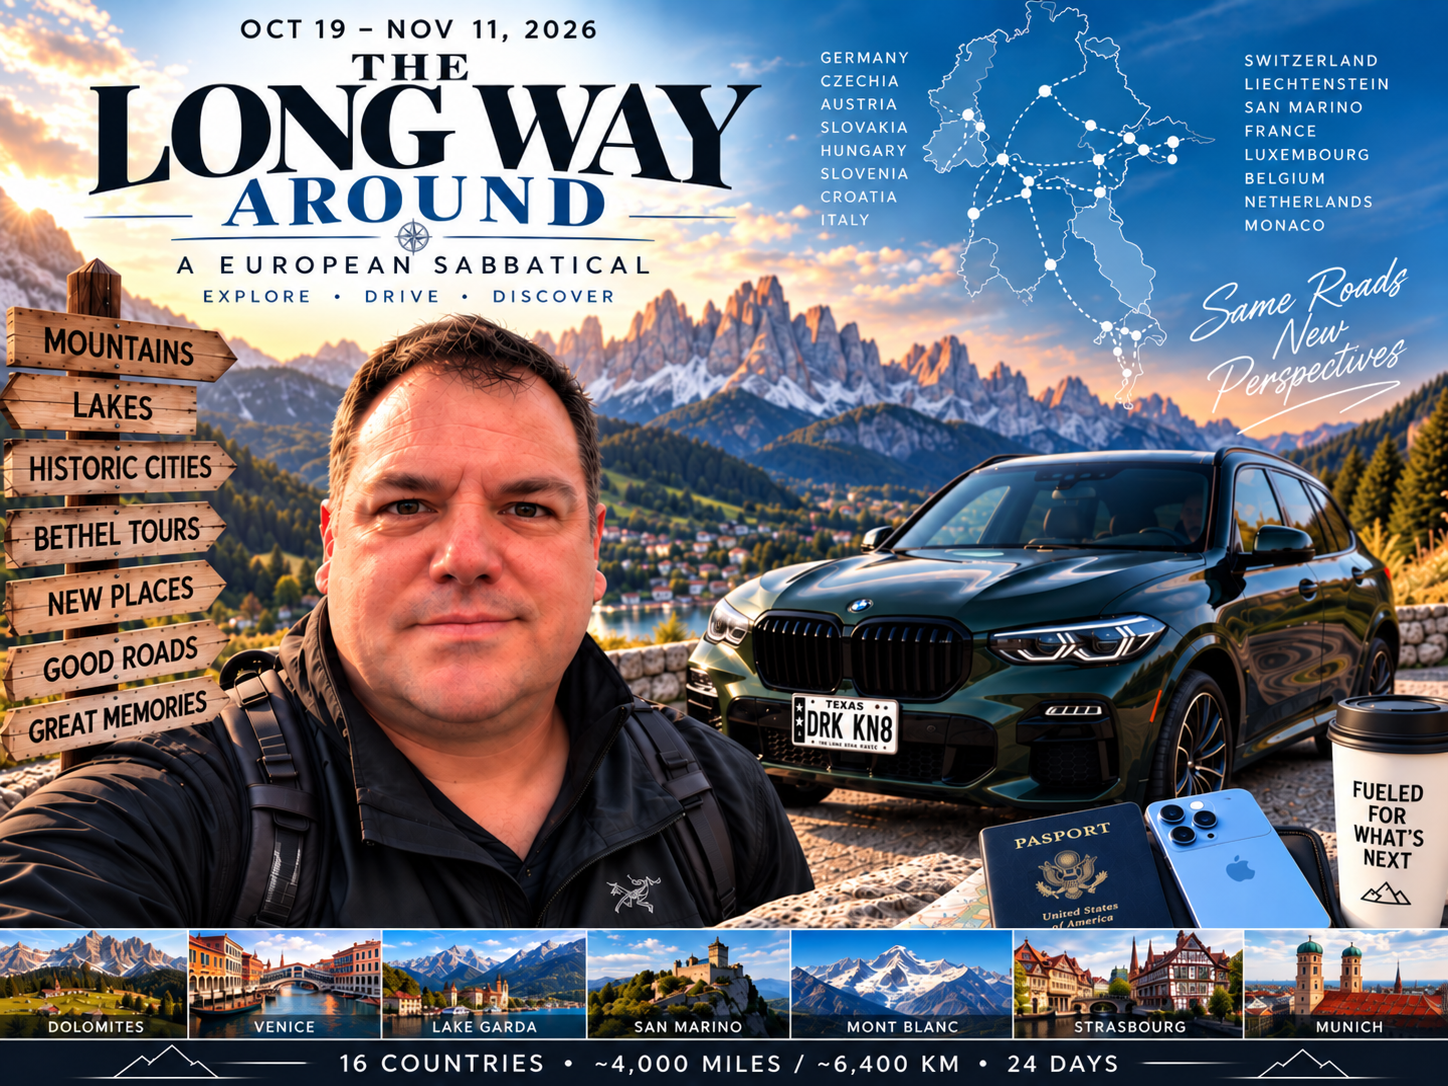
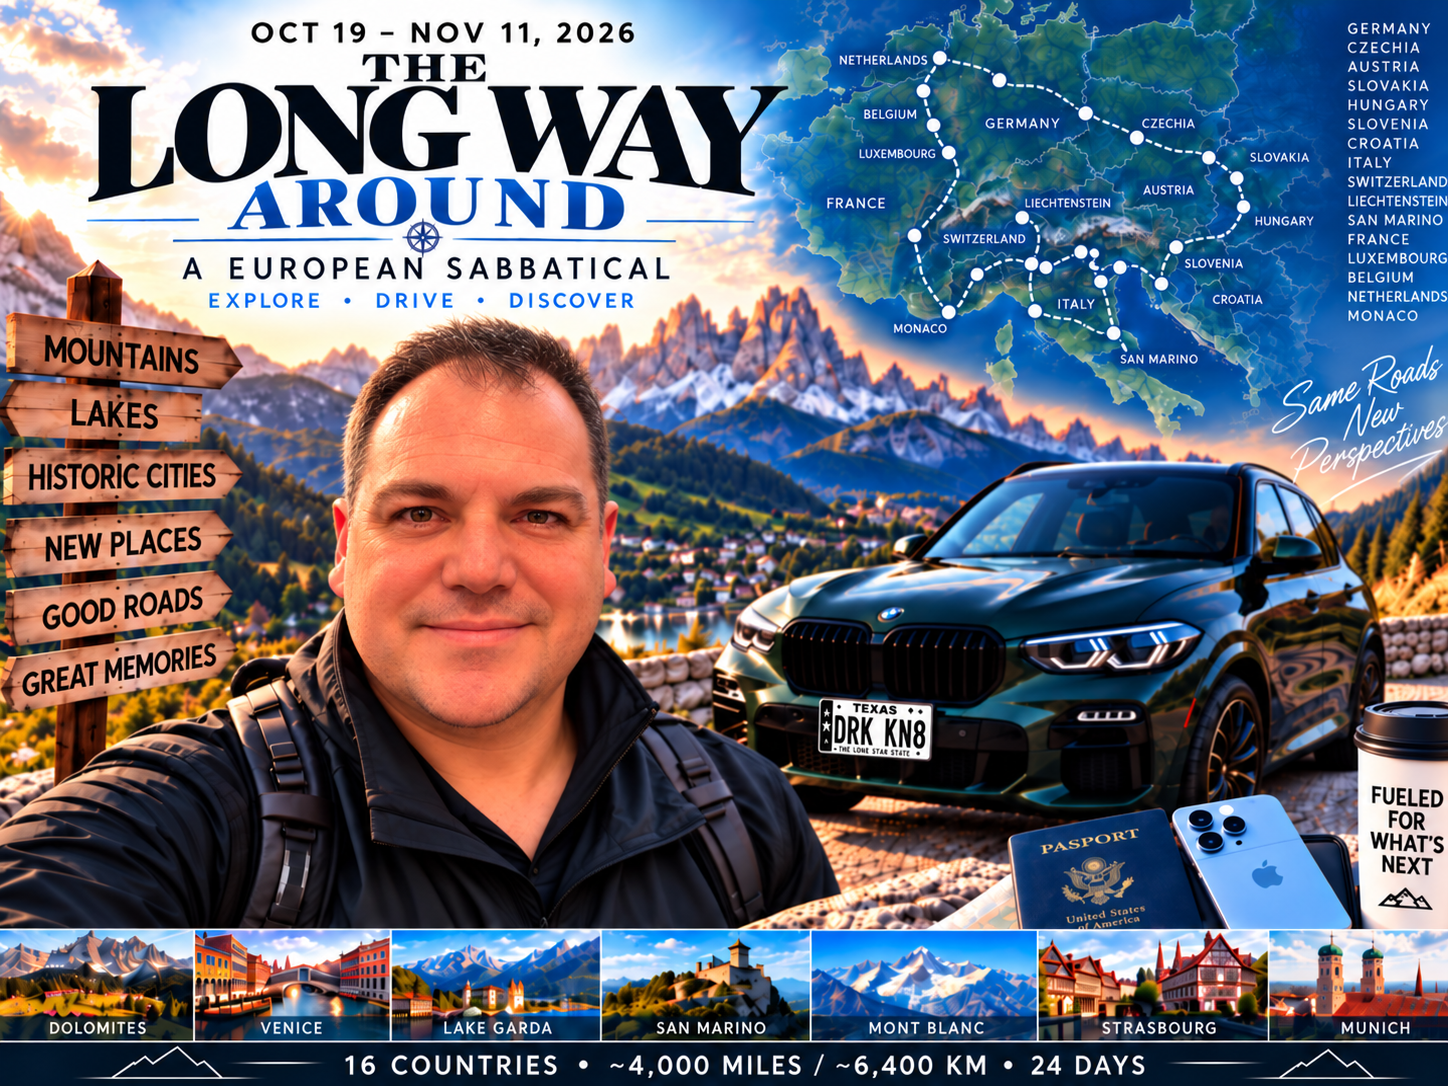
Updates to remove journey and add latest postcard

diff --git a/js/latest-postcard.js b/js/latest-postcard.js
@@ -1,0 +1,164 @@
+/* =====================================
+   POSTCARDS FROM BEN
+   Latest Postcard
+===================================== */
+
+async function loadLatestPostcard() {
+
+    const section =
+        document.getElementById(
+            "latest-postcard-section"
+        );
+
+    if (!section) {
+        return;
+    }
+
+    try {
+
+        const tripResponse =
+            await fetch(
+                "trips/the-long-way-around/trip.json"
+            );
+
+        if (!tripResponse.ok) {
+            throw new Error(
+                "Could not load trip data."
+            );
+        }
+
+        const trip =
+            await tripResponse.json();
+
+
+        /*
+         Start with Day 24 and work backward.
+         The newest day containing a journal,
+         photo, or video becomes Latest Postcard.
+        */
+
+        const days =
+            [...trip.days].reverse();
+
+
+        for (const dayReference of days) {
+
+            const dayUrl =
+                new URL(
+                    dayReference.file,
+                    tripResponse.url
+                ).href;
+
+            const dayResponse =
+                await fetch(dayUrl);
+
+            if (!dayResponse.ok) {
+                continue;
+            }
+
+            const day =
+                await dayResponse.json();
+
+
+            const hasJournal =
+                typeof day.journal === "string" &&
+                day.journal.trim() !== "";
+
+            const hasPhotos =
+                Array.isArray(day.photos) &&
+                day.photos.length > 0;
+
+            const hasVideos =
+                Array.isArray(day.videos) &&
+                day.videos.length > 0;
+
+
+            if (
+                !hasJournal &&
+                !hasPhotos &&
+                !hasVideos
+            ) {
+                continue;
+            }
+
+
+            document.getElementById(
+                "latest-postcard-meta"
+            ).textContent =
+                `Day ${day.dayNumber} · ${day.date}`;
+
+
+            document.getElementById(
+                "latest-postcard-title"
+            ).textContent =
+                day.title;
+
+
+            let excerpt;
+
+
+            if (hasJournal) {
+
+                excerpt =
+                    day.journal
+                        .replace(/\s+/g, " ")
+                        .trim();
+
+                if (excerpt.length > 180) {
+
+                    excerpt =
+                        excerpt
+                            .slice(0, 177)
+                            .trimEnd() + "…";
+
+                }
+
+            } else if (hasPhotos) {
+
+                excerpt =
+                    `New photos from ${day.title}.`;
+
+            } else {
+
+                excerpt =
+                    `A new video update from ${day.title}.`;
+
+            }
+
+
+            document.getElementById(
+                "latest-postcard-excerpt"
+            ).textContent =
+                excerpt;
+
+
+            const paddedDay =
+                String(day.dayNumber)
+                    .padStart(2, "0");
+
+
+            document.getElementById(
+                "latest-postcard-link"
+            ).href =
+                `trips/the-long-way-around/days/day-${paddedDay}.html`;
+
+
+            section.hidden = false;
+
+            return;
+        }
+
+
+    } catch (error) {
+
+        console.error(
+            "Unable to load latest postcard:",
+            error
+        );
+
+    }
+
+}
+
+
+loadLatestPostcard();

diff --git a/index.html b/index.html
@@ -27,15 +27,38 @@
                 <p>Europe · October 19 &ndash; November 11, 2026</p>
 
                 <p>
-                    A 24-day journey through Europe,
+                    A 24-day adventure through Europe,
                     the Alps, historic cities, mountain roads
                     and some unforgettable stops along the way.
                 </p>
 
                 <a href="trips/the-long-way-around/">
-                    Explore the Journey
+                    Explore the Adventure
                 </a>
             </article>
+        </section>
+
+         <section id="latest-postcard-section" hidden>
+
+            <h2>Latest Postcard</h2>
+
+            <article class="latest-postcard-card">
+
+                <p
+                    id="latest-postcard-meta"
+                    class="latest-postcard-meta">
+                </p>
+
+                <h3 id="latest-postcard-title"></h3>
+
+                <p id="latest-postcard-excerpt"></p>
+
+                <a id="latest-postcard-link" href="#">
+                    Read the Postcard →
+                </a>
+
+            </article>
+
         </section>
 
         <section>
@@ -49,7 +72,7 @@
                 </h3>
 
                 <p>
-                    Future journeys will be added here.
+                    Future adventures will be added here.
                 </p>
 
             </article>
@@ -61,6 +84,8 @@
     <footer>
         <p>Postcards from Ben</p>
     </footer>
+
+    <script src="js/latest-postcard.js"></script>
 
     <script src="js/site.js"></script>
 

diff --git a/css/styles.css b/css/styles.css
@@ -1323,3 +1323,33 @@ footer {
     }
 
 }
+
+/* =====================================
+   LATEST POSTCARD
+===================================== */
+
+.latest-postcard-card {
+    border-left: 4px solid #17212b;
+}
+
+.latest-postcard-meta {
+    margin: 0 0 8px;
+
+    font-size: 0.78rem;
+    font-weight: 700;
+
+    text-transform: uppercase;
+    letter-spacing: 1.2px;
+
+    color: #68737d;
+}
+
+.latest-postcard-card h3 {
+    margin: 0 0 12px;
+
+    font-size: clamp(1.8rem, 4vw, 2.5rem);
+}
+
+.latest-postcard-card p:last-of-type {
+    max-width: 720px;
+}
